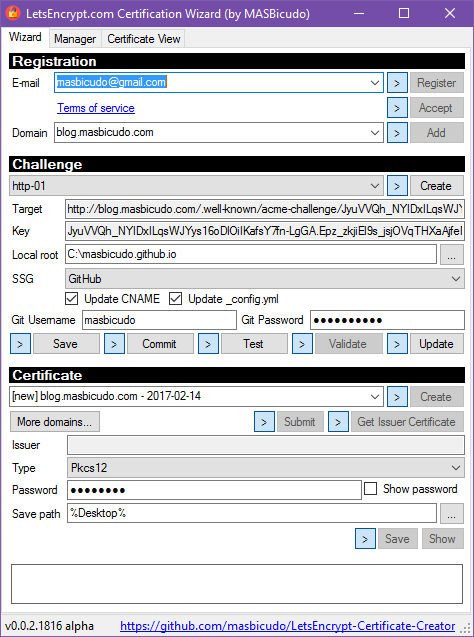
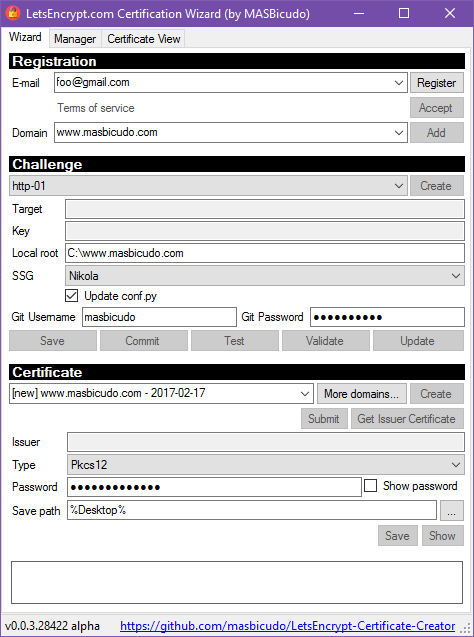
Changed layout a bit.

diff --git a/LetsEncryptAcmeReg/Form2.Designer.cs b/LetsEncryptAcmeReg/Form2.Designer.cs
@@ -69,7 +69,6 @@
             this.btnSubmit = new System.Windows.Forms.Button();
             this.chkAutoGetIssuerCert = new System.Windows.Forms.CheckBox();
             this.btnGetIssuerCert = new System.Windows.Forms.Button();
-            this.btnCertDomains = new System.Windows.Forms.Button();
             this.tableLayoutPanel4 = new System.Windows.Forms.TableLayoutPanel();
             this.btnChangeSavePath = new System.Windows.Forms.Button();
             this.tableLayoutPanel5 = new System.Windows.Forms.TableLayoutPanel();
@@ -141,6 +140,8 @@
             this.labVer = new System.Windows.Forms.ToolStripStatusLabel();
             this.toolStripStatusLabel1 = new System.Windows.Forms.ToolStripStatusLabel();
             this.lnkProject = new System.Windows.Forms.ToolStripStatusLabel();
+            this.tableLayoutPanel11 = new System.Windows.Forms.TableLayoutPanel();
+            this.btnCertDomains = new System.Windows.Forms.Button();
             this.tabControl1.SuspendLayout();
             this.tabPage1.SuspendLayout();
             this.tableLayoutPanel1.SuspendLayout();
@@ -176,6 +177,7 @@
             this.toolStripContainer5.ContentPanel.SuspendLayout();
             this.toolStripContainer5.SuspendLayout();
             this.statusStrip1.SuspendLayout();
+            this.tableLayoutPanel11.SuspendLayout();
             this.SuspendLayout();
             // 
             // tabControl1
@@ -212,6 +214,7 @@
             this.tableLayoutPanel1.ColumnStyles.Add(new System.Windows.Forms.ColumnStyle(System.Windows.Forms.SizeType.Percent, 100F));
             this.tableLayoutPanel1.ColumnStyles.Add(new System.Windows.Forms.ColumnStyle(System.Windows.Forms.SizeType.Absolute, 0F));
             this.tableLayoutPanel1.ColumnStyles.Add(new System.Windows.Forms.ColumnStyle());
+            this.tableLayoutPanel1.Controls.Add(this.tableLayoutPanel11, 0, 9);
             this.tableLayoutPanel1.Controls.Add(this.panel1, 0, 13);
             this.tableLayoutPanel1.Controls.Add(this.btnCreateChallenge, 3, 5);
             this.tableLayoutPanel1.Controls.Add(this.btnAddDomain, 3, 3);
@@ -233,7 +236,6 @@
             this.tableLayoutPanel1.Controls.Add(this.label7, 0, 8);
             this.tableLayoutPanel1.Controls.Add(this.tableLayoutPanel10, 0, 10);
             this.tableLayoutPanel1.Controls.Add(this.tableLayoutPanel4, 0, 11);
-            this.tableLayoutPanel1.Controls.Add(this.cmbCertificate, 0, 9);
             this.tableLayoutPanel1.Controls.Add(this.label1, 0, 1);
             this.tableLayoutPanel1.Controls.Add(this.label18, 0, 0);
             this.tableLayoutPanel1.Controls.Add(this.tableLayoutPanel2, 0, 6);
@@ -711,6 +713,7 @@
             // cmbChallenge
             // 
             this.cmbChallenge.Anchor = ((System.Windows.Forms.AnchorStyles)((System.Windows.Forms.AnchorStyles.Left | System.Windows.Forms.AnchorStyles.Right)));
+            this.cmbChallenge.BackColor = System.Drawing.Color.White;
             this.tableLayoutPanel1.SetColumnSpan(this.cmbChallenge, 2);
             this.cmbChallenge.DropDownStyle = System.Windows.Forms.ComboBoxStyle.DropDownList;
             this.cmbChallenge.FormattingEnabled = true;
@@ -757,7 +760,6 @@
             this.tableLayoutPanel10.Controls.Add(this.btnSubmit, 3, 0);
             this.tableLayoutPanel10.Controls.Add(this.chkAutoGetIssuerCert, 4, 0);
             this.tableLayoutPanel10.Controls.Add(this.btnGetIssuerCert, 5, 0);
-            this.tableLayoutPanel10.Controls.Add(this.btnCertDomains, 0, 0);
             this.tableLayoutPanel10.Location = new System.Drawing.Point(0, 335);
             this.tableLayoutPanel10.Margin = new System.Windows.Forms.Padding(0);
             this.tableLayoutPanel10.Name = "tableLayoutPanel10";
@@ -827,20 +829,6 @@
             this.btnGetIssuerCert.Text = "Get Issuer Certificate";
             this.btnGetIssuerCert.UseVisualStyleBackColor = true;
             this.btnGetIssuerCert.Click += new System.EventHandler(this.btnGetIssuerCert_Click);
-            // 
-            // btnCertDomains
-            // 
-            this.btnCertDomains.Anchor = ((System.Windows.Forms.AnchorStyles)((System.Windows.Forms.AnchorStyles.Left | System.Windows.Forms.AnchorStyles.Right)));
-            this.btnCertDomains.AutoSize = true;
-            this.btnCertDomains.AutoSizeMode = System.Windows.Forms.AutoSizeMode.GrowAndShrink;
-            this.btnCertDomains.Location = new System.Drawing.Point(1, 1);
-            this.btnCertDomains.Margin = new System.Windows.Forms.Padding(1);
-            this.btnCertDomains.Name = "btnCertDomains";
-            this.btnCertDomains.Size = new System.Drawing.Size(92, 23);
-            this.btnCertDomains.TabIndex = 12;
-            this.btnCertDomains.Text = "More domains...";
-            this.btnCertDomains.UseVisualStyleBackColor = true;
-            this.btnCertDomains.Click += new System.EventHandler(this.btnCertDomains_Click);
             // 
             // tableLayoutPanel4
             // 
@@ -1089,12 +1077,11 @@
             // cmbCertificate
             // 
             this.cmbCertificate.Anchor = ((System.Windows.Forms.AnchorStyles)((System.Windows.Forms.AnchorStyles.Left | System.Windows.Forms.AnchorStyles.Right)));
-            this.tableLayoutPanel1.SetColumnSpan(this.cmbCertificate, 2);
             this.cmbCertificate.FormattingEnabled = true;
-            this.cmbCertificate.Location = new System.Drawing.Point(1, 312);
+            this.cmbCertificate.Location = new System.Drawing.Point(1, 2);
             this.cmbCertificate.Margin = new System.Windows.Forms.Padding(1);
             this.cmbCertificate.Name = "cmbCertificate";
-            this.cmbCertificate.Size = new System.Drawing.Size(399, 21);
+            this.cmbCertificate.Size = new System.Drawing.Size(305, 21);
             this.cmbCertificate.TabIndex = 1;
             // 
             // label1
@@ -1739,8 +1726,8 @@
             this.tableCertDomains.ColumnStyles.Add(new System.Windows.Forms.ColumnStyle(System.Windows.Forms.SizeType.Percent, 100F));
             this.tableCertDomains.Controls.Add(this.lstCertDomains, 0, 0);
             this.tableCertDomains.Controls.Add(this.btnHideCertDomains, 0, 1);
-            this.tableCertDomains.Dock = System.Windows.Forms.DockStyle.Right;
-            this.tableCertDomains.Location = new System.Drawing.Point(454, 0);
+            this.tableCertDomains.Dock = System.Windows.Forms.DockStyle.Left;
+            this.tableCertDomains.Location = new System.Drawing.Point(0, 0);
             this.tableCertDomains.Name = "tableCertDomains";
             this.tableCertDomains.RowCount = 2;
             this.tableCertDomains.RowStyles.Add(new System.Windows.Forms.RowStyle(System.Windows.Forms.SizeType.Percent, 100F));
@@ -1812,6 +1799,42 @@
             this.lnkProject.Size = new System.Drawing.Size(342, 17);
             this.lnkProject.Text = "https://github.com/masbicudo/LetsEncrypt-Certificate-Creator";
             this.lnkProject.Click += new System.EventHandler(this.linkProject_LinkClicked);
+            // 
+            // tableLayoutPanel11
+            // 
+            this.tableLayoutPanel11.Anchor = ((System.Windows.Forms.AnchorStyles)((((System.Windows.Forms.AnchorStyles.Top | System.Windows.Forms.AnchorStyles.Bottom) 
+            | System.Windows.Forms.AnchorStyles.Left) 
+            | System.Windows.Forms.AnchorStyles.Right)));
+            this.tableLayoutPanel11.AutoSize = true;
+            this.tableLayoutPanel11.AutoSizeMode = System.Windows.Forms.AutoSizeMode.GrowAndShrink;
+            this.tableLayoutPanel11.ColumnCount = 2;
+            this.tableLayoutPanel1.SetColumnSpan(this.tableLayoutPanel11, 2);
+            this.tableLayoutPanel11.ColumnStyles.Add(new System.Windows.Forms.ColumnStyle(System.Windows.Forms.SizeType.Percent, 100F));
+            this.tableLayoutPanel11.ColumnStyles.Add(new System.Windows.Forms.ColumnStyle());
+            this.tableLayoutPanel11.Controls.Add(this.btnCertDomains, 1, 0);
+            this.tableLayoutPanel11.Controls.Add(this.cmbCertificate, 0, 0);
+            this.tableLayoutPanel11.Location = new System.Drawing.Point(0, 310);
+            this.tableLayoutPanel11.Margin = new System.Windows.Forms.Padding(0);
+            this.tableLayoutPanel11.Name = "tableLayoutPanel11";
+            this.tableLayoutPanel11.RowCount = 1;
+            this.tableLayoutPanel11.RowStyles.Add(new System.Windows.Forms.RowStyle(System.Windows.Forms.SizeType.Percent, 100F));
+            this.tableLayoutPanel11.RowStyles.Add(new System.Windows.Forms.RowStyle(System.Windows.Forms.SizeType.Absolute, 20F));
+            this.tableLayoutPanel11.Size = new System.Drawing.Size(401, 25);
+            this.tableLayoutPanel11.TabIndex = 2;
+            // 
+            // btnCertDomains
+            // 
+            this.btnCertDomains.Anchor = ((System.Windows.Forms.AnchorStyles)((System.Windows.Forms.AnchorStyles.Left | System.Windows.Forms.AnchorStyles.Right)));
+            this.btnCertDomains.AutoSize = true;
+            this.btnCertDomains.AutoSizeMode = System.Windows.Forms.AutoSizeMode.GrowAndShrink;
+            this.btnCertDomains.Location = new System.Drawing.Point(308, 1);
+            this.btnCertDomains.Margin = new System.Windows.Forms.Padding(1);
+            this.btnCertDomains.Name = "btnCertDomains";
+            this.btnCertDomains.Size = new System.Drawing.Size(92, 23);
+            this.btnCertDomains.TabIndex = 12;
+            this.btnCertDomains.Text = "More domains...";
+            this.btnCertDomains.UseVisualStyleBackColor = true;
+            this.btnCertDomains.Click += new System.EventHandler(this.btnCertDomains_Click);
             // 
             // Form2
             // 
@@ -1886,6 +1909,8 @@
             this.toolStripContainer5.PerformLayout();
             this.statusStrip1.ResumeLayout(false);
             this.statusStrip1.PerformLayout();
+            this.tableLayoutPanel11.ResumeLayout(false);
+            this.tableLayoutPanel11.PerformLayout();
             this.ResumeLayout(false);
 
         }
@@ -1990,7 +2015,6 @@
         private System.Windows.Forms.Button btnCopyCertBase64Data;
         private System.Windows.Forms.FlowLayoutPanel flowLayoutPanel1;
         private System.Windows.Forms.LinkLabel lnkGitLabCertHelp;
-        private System.Windows.Forms.Button btnCertDomains;
         private System.Windows.Forms.CheckedListBox lstCertDomains;
         private System.Windows.Forms.TableLayoutPanel tableCertDomains;
         private System.Windows.Forms.Button btnHideCertDomains;
@@ -2003,5 +2027,7 @@
         private System.Windows.Forms.ToolStripStatusLabel lnkProject;
         private System.Windows.Forms.ToolStripStatusLabel toolStripStatusLabel1;
         private System.Windows.Forms.Label labDates;
+        private System.Windows.Forms.TableLayoutPanel tableLayoutPanel11;
+        private System.Windows.Forms.Button btnCertDomains;
     }
 }
